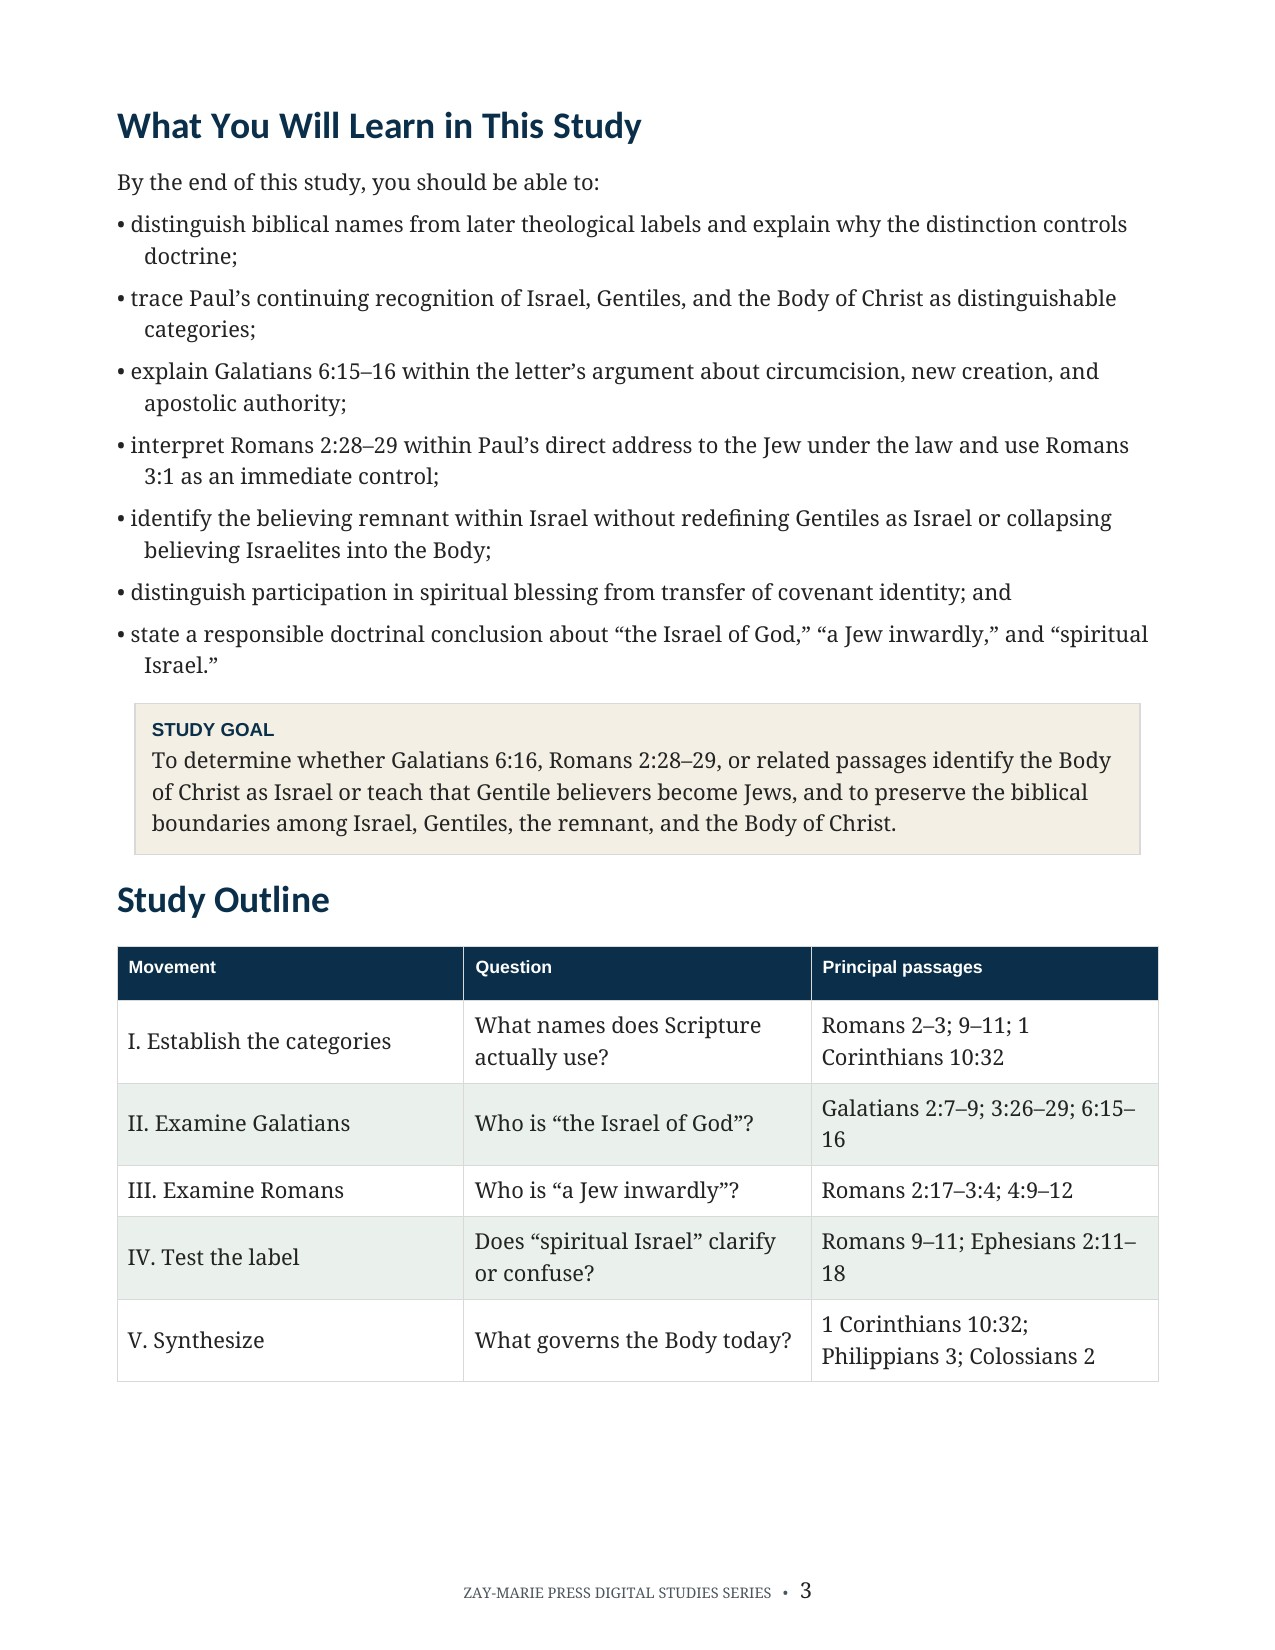
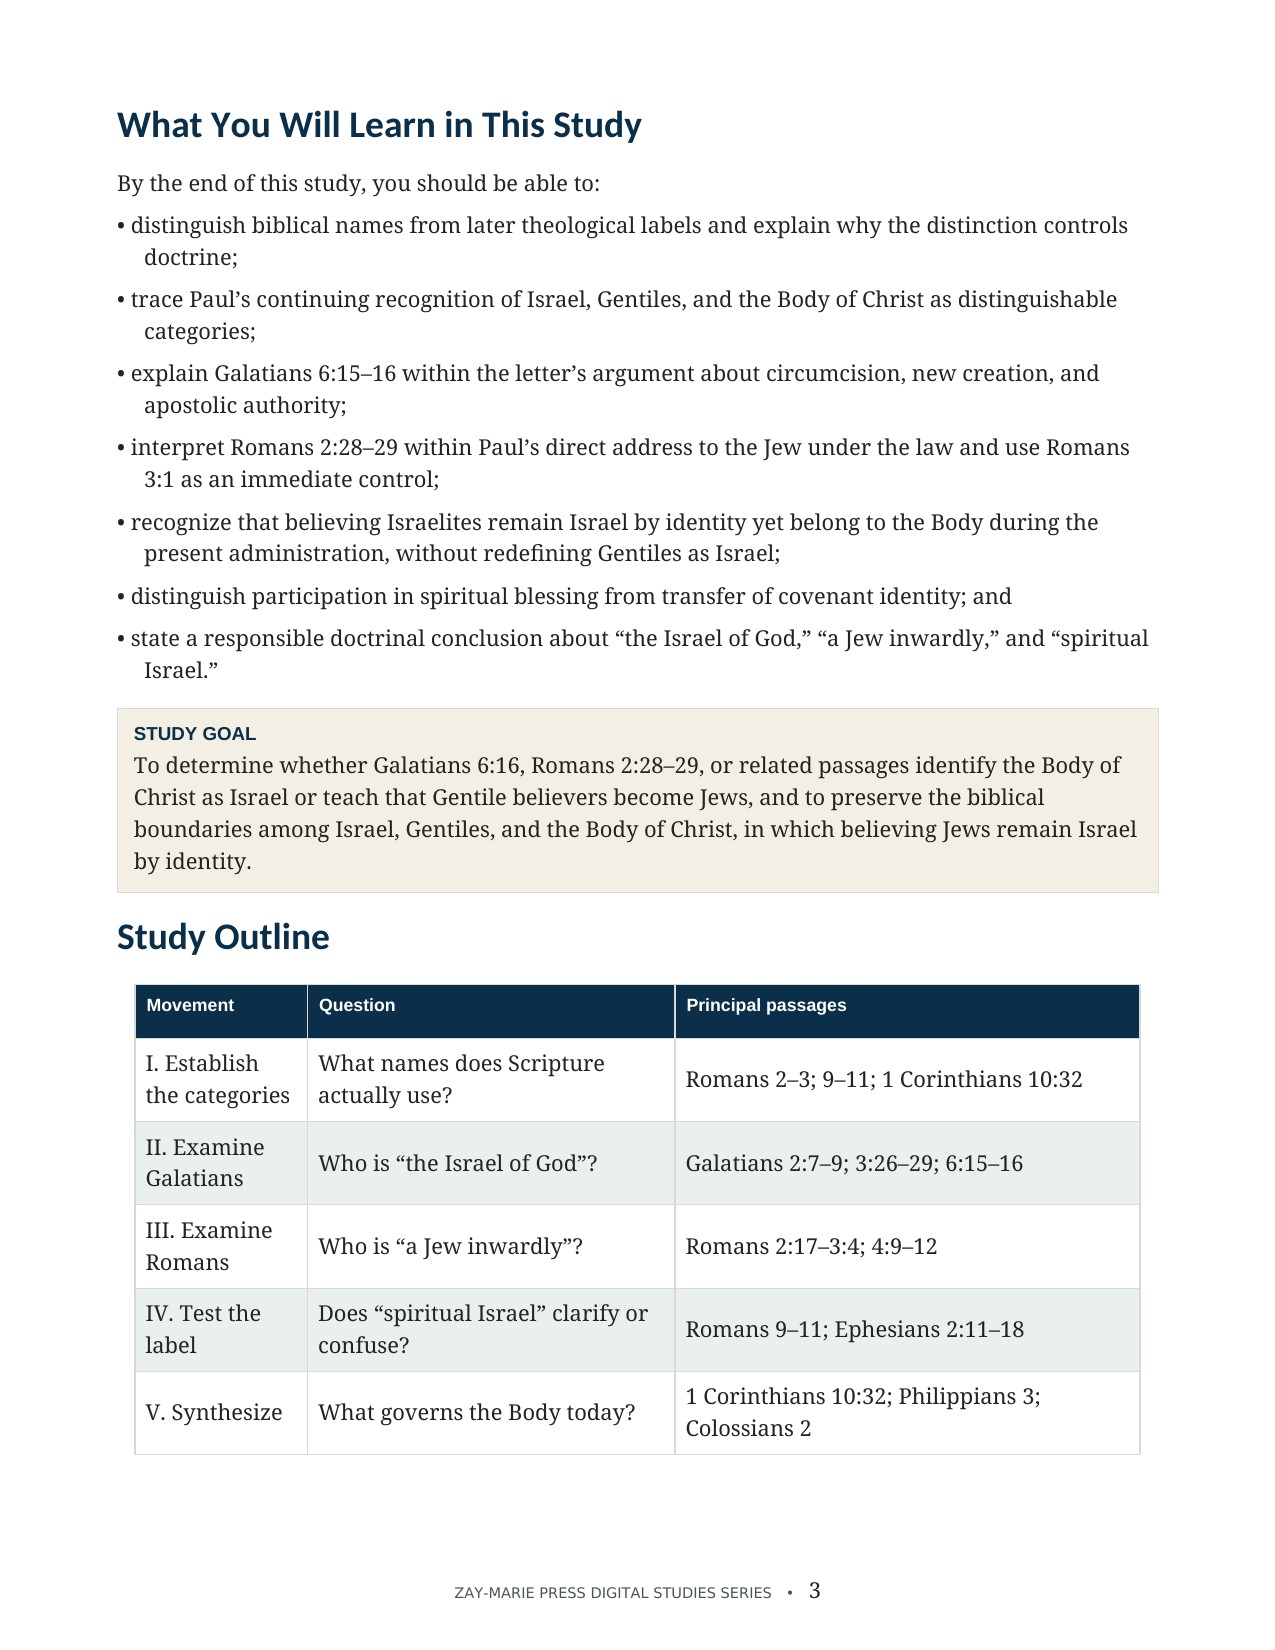
Study 35: preview strip now TOC, What You Will Learn, Galatians page; images rebuilt from corrected PDF; drop Page 11 and Page 8 previews
Claude-Session: https://claude.ai/code/session_01QibtkwXuhqKkeD6pfcAZUc

diff --git a/study-35-who-is-the-israel-of-god.html b/study-35-who-is-the-israel-of-god.html
@@ -7,7 +7,7 @@
 <section class="detail-section soft"><div class="wrap"><div class="eyebrow">WHAT YOU’LL STUDY</div><h2>Test Every Identity Claim in Its Own Context</h2><div class="study-points"><div class="study-point"><h3>Biblical Names</h3><p>Separate Scripture’s own expressions from later theological labels that can quietly assume the conclusion.</p></div><div class="study-point"><h3>The Galatian Argument</h3><p>Trace circumcision, new creation, apostolic spheres, and the rule governing Galatians 6:15–16.</p></div><div class="study-point"><h3>The Israel of God</h3><p>Evaluate the grammar and context without presuming that Paul renamed the Body as Israel.</p></div><div class="study-point"><h3>A Jew Inwardly</h3><p>Read Romans 2 within Paul’s direct address to the Jew, then use Romans 3:1 as the immediate control.</p></div><div class="study-point"><h3>The Faithful Remnant</h3><p>Trace how believing Israelites stand within Israel and within the Body, without turning every believer of every nation into Israel.</p></div><div class="study-point"><h3>Identity and Blessing</h3><p>Distinguish Gentile participation in spiritual blessing from transfer of covenant or corporate identity.</p></div></div></div></section>
 <section class="detail-section cream"><div class="wrap"><div class="eyebrow">KEY SCRIPTURES</div><h2>Follow Paul’s Categories Across the Argument</h2><div class="scripture-grid"><div class="scripture-card"><h3>Galatians 2:7–9</h3><p>Two distinct apostolic lines and entrusted spheres operating concurrently.</p></div><div class="scripture-card"><h3>Galatians 3:26–29</h3><p>Equal standing in Christ without erasing every ethnic or programmatic distinction.</p></div><div class="scripture-card"><h3>Galatians 6:15–16</h3><p>New creation, the governing rule, and “the Israel of God.”</p></div><div class="scripture-card"><h3>Romans 2:17–29; 3:1</h3><p>The Jew, the law, circumcision, inward reality, and Paul’s immediate control.</p></div><div class="scripture-card"><h3>Romans 9:1–8, 27</h3><p>Israel according to promise and the remnant within the nation.</p></div><div class="scripture-card"><h3>Romans 11:1–7</h3><p>Paul as an Israelite and the remnant according to the election of grace.</p></div><div class="scripture-card"><h3>Romans 11:11–29</h3><p>Gentile participation in blessing without identity transfer.</p></div><div class="scripture-card"><h3>Ephesians 2:11–18</h3><p>One new man and one Body—not an enlarged or renamed Israel.</p></div></div></div></section>
 <section class="detail-section"><div class="wrap"><div class="eyebrow">FROM THE STUDY</div><h2>A Label Cannot Create an Identity</h2><div class="excerpt"><blockquote>“Shared blessing, faith, inward spiritual reality, and participation in grace do not automatically establish shared corporate identity.”</blockquote><p>Paul’s named recipients, immediate arguments, and continuing distinctions control the conclusion—not a theological label imposed on the passages.</p></div></div></section>
-<section class="detail-section soft"><div class="wrap"><div class="eyebrow">A LOOK INSIDE</div><h2>Preview the Study Before You Purchase</h2><p class="preview-instruction">Click any page to enlarge it for reading.</p><div class="preview-grid"><div class="preview-card"><a class="preview-image-link" data-preview-lightbox href="assets/study-35-page-3.jpg"><img src="assets/study-35-page-3.jpg" alt="Study 35 page 3 learning outcomes, Study Goal, and Study Outline"></a><div class="page-no">Page 3</div><h3>Learning Outcomes and Study Goal</h3><p>Begin with the identity distinctions, interpretive controls, and questions that govern the study.</p></div><div class="preview-card"><a class="preview-image-link" data-preview-lightbox href="assets/study-35-page-6.jpg"><img src="assets/study-35-page-6.jpg" alt="Study 35 page 6 Galatians context and the Israel of God"></a><div class="page-no">Page 6</div><h3>Galatians and the Israel of God</h3><p>Follow the new-creation rule, apostolic spheres, grammar, and contextual case for believing Jews within the Body.</p></div><div class="preview-card"><a class="preview-image-link" data-preview-lightbox href="assets/study-35-page-8.jpg"><img src="assets/study-35-page-8.jpg" alt="Study 35 page 8 a Jew inwardly and inward circumcision"></a><div class="page-no">Page 8</div><h3>A Jew Inwardly</h3><p>Read Romans 2 within Paul’s address to the Jew and see why inward circumcision does not make Gentiles Jews.</p></div><div class="preview-card"><a class="preview-image-link" data-preview-lightbox href="assets/study-35-page-11.jpg"><img src="assets/study-35-page-11.jpg" alt="Study 35 page 11 identity control, conclusion, and study summary"></a><div class="page-no">Page 11</div><h3>Identity Control and Conclusion</h3><p>Bring the passages together without confusing participation in blessing with transfer of corporate identity.</p></div></div></div></section>
+<section class="detail-section soft"><div class="wrap"><div class="eyebrow">A LOOK INSIDE</div><h2>Preview the Study Before You Purchase</h2><p class="preview-instruction">Click any page to enlarge it for reading.</p><div class="preview-grid"><div class="preview-card"><a class="preview-image-link" data-preview-lightbox href="assets/study-35-page-2.jpg"><img src="assets/study-35-page-2.jpg" alt="Study 35 page 2 table of contents"></a><div class="page-no">Page 2</div><h3>Table of Contents</h3><p>See the study’s full structure and scope at a glance.</p></div><div class="preview-card"><a class="preview-image-link" data-preview-lightbox href="assets/study-35-page-3.jpg"><img src="assets/study-35-page-3.jpg" alt="Study 35 page 3 learning outcomes, Study Goal, and Study Outline"></a><div class="page-no">Page 3</div><h3>Learning Outcomes and Study Goal</h3><p>Begin with the identity distinctions, interpretive controls, and questions that govern the study.</p></div><div class="preview-card"><a class="preview-image-link" data-preview-lightbox href="assets/study-35-page-6.jpg"><img src="assets/study-35-page-6.jpg" alt="Study 35 page 6 Galatians context and the Israel of God"></a><div class="page-no">Page 6</div><h3>Galatians and the Israel of God</h3><p>Follow the new-creation rule, apostolic spheres, grammar, and contextual case for believing Jews within the Body.</p></div></div></div></section>
 <section class="detail-section"><div class="wrap"><div class="eyebrow">WHAT’S INCLUDED</div><h2>A Focused Study Built for<br>Doctrinal Precision and Responsible Application</h2><div class="includes-grid"><div class="include-item"><h3>15-Page Biblical Study</h3><p>A substantive examination of the proof texts commonly used to identify the Body as Israel.</p></div><div class="include-item"><h3>Fourteen Teaching Sections</h3><p>Move from biblical terminology through Galatians, Romans, the remnant, and present doctrine.</p></div><div class="include-item"><h3>Contextual Exegesis</h3><p>Examine grammar, recipients, argument, programmatic setting, and Paul’s established usage.</p></div><div class="include-item"><h3>High-Contrast Tables</h3><p>Compare identities, claims, contextual results, and distinctions without category confusion.</p></div><div class="include-item"><h3>Scripture-Tracing Exercise</h3><p>Trace Israel, inward circumcision, the remnant, Gentile blessing, and the Body’s identity.</p></div><div class="include-item"><h3>Review Questions</h3><p>Test the difference between equal standing, shared blessing, inward reality, and corporate identity.</p></div><div class="include-item"><h3>Teaching Outline</h3><p>Use a ready framework for teaching the principal passages in their proper order and context.</p></div><div class="include-item"><h3>Guided Further Study</h3><p>Grouped passages support deeper work in Galatians, Romans, prophecy, and Pauline doctrine.</p></div></div></div></section>
 <section class="detail-section cream"><div class="wrap"><div class="final-buy"><div><div class="eyebrow">BIBLICAL DOCTRINE · DIGITAL STUDY</div><h2>Who Is the Israel of God?</h2><p>Digital PDF · 15 Pages · For personal use</p></div><div class="final-offer"><div class="detail-price">$5.99</div><span class="detail-button pending" aria-disabled="true">Checkout Coming Soon</span></div></div><a class="back-link" href="digital-studies.html">← Back to All Digital Studies</a></div></section><section class="study-method-course-bridge"><div class="wrap"><div class="study-method-course-panel"><div><div class="eyebrow">BUILD THE INTERPRETIVE METHOD</div><h2>Want More Than a Focused Study?</h2><p>Digital Studies examine particular biblical subjects and difficult passages. The 40-lesson Biblical Hermeneutics course teaches a complete, repeatable method for establishing meaning in context, determining proper assignment, and making responsible application.</p></div><a class="btn btn-primary" href="biblical-hermeneutics-course.html">BIBLICAL HERMENEUTICS COURSE</a></div></div></section></main>
 <div class="preview-lightbox" id="preview-lightbox" role="dialog" aria-modal="true" aria-label="Expanded study preview"><button class="preview-lightbox-close" type="button" aria-label="Close preview">×</button><img id="preview-lightbox-image" alt=""></div><footer class="site-footer"><div class="wrap footer-grid"><div class="footer-about"><h3>Zay-Marie Press</h3><p class="footer-tagline"><em>Where the Bible Means What It Says.</em></p><p>Zay-Marie Press is a Christian theological publisher dedicated to producing doctrinally precise, carefully structured biblical resources that equip pastors, teachers, and serious students with clarity, depth, and Scripture-anchored truth.</p><p><a href="https://zaymariepress.com">zaymariepress.com</a><br><a href="mailto:info@zaymariepress.com">info@zaymariepress.com</a></p></div><div class="footer-column"><h3>Explore</h3><div class="footer-links-stacked"><a href="books.html">Books</a><br><a href="series.html">Series</a><br><a href="biblical-hermeneutics-course.html">Course</a><br><a href="digital-studies.html">Digital Studies</a><br><a href="resources.html">Resources</a><br><a href="bible-book-summaries.html">Bible Book Summaries</a><br><a href="doctrinal-packets.html">Doctrinal Packets</a><br><a href="historical-drift.html">Historical Drift</a><br><a href="about.html">About</a><br><a href="contact.html">Contact</a></div></div><div class="footer-column"><h3>Reader Support</h3><div class="footer-links-stacked"><a href="reader-support.html#faq">FAQ</a><br><a href="reader-support.html#shipping-returns">Shipping &amp; Returns</a><br><a href="reader-support.html#digital-downloads">Digital Downloads</a><br><a href="reader-support.html#contact-support">Contact Support</a></div></div><div class="footer-column"><h3>Acts Overlap</h3><p><strong>Acts Overlap Theology Series</strong></p><p><em>Two Distinct Streams. One Overlap.</em></p><p><a href="series.html">Series Overview</a></p></div></div><div class="wrap footer-bottom">© 2026 Zay-Marie Press. All rights reserved.</div></footer><script src="site.js"></script><script>const lightbox=document.getElementById('preview-lightbox'),lightboxImage=document.getElementById('preview-lightbox-image'),closeLightbox=()=>{lightbox.classList.remove('open');lightboxImage.src='';};document.querySelectorAll('[data-preview-lightbox]').forEach(link=>link.addEventListener('click',event=>{event.preventDefault();lightboxImage.src=link.href;lightboxImage.alt=link.querySelector('img').alt;lightbox.classList.add('open');}));document.querySelector('.preview-lightbox-close').addEventListener('click',closeLightbox);lightbox.addEventListener('click',event=>{if(event.target===lightbox)closeLightbox();});document.addEventListener('keydown',event=>{if(event.key==='Escape')closeLightbox();});</script></body></html>
